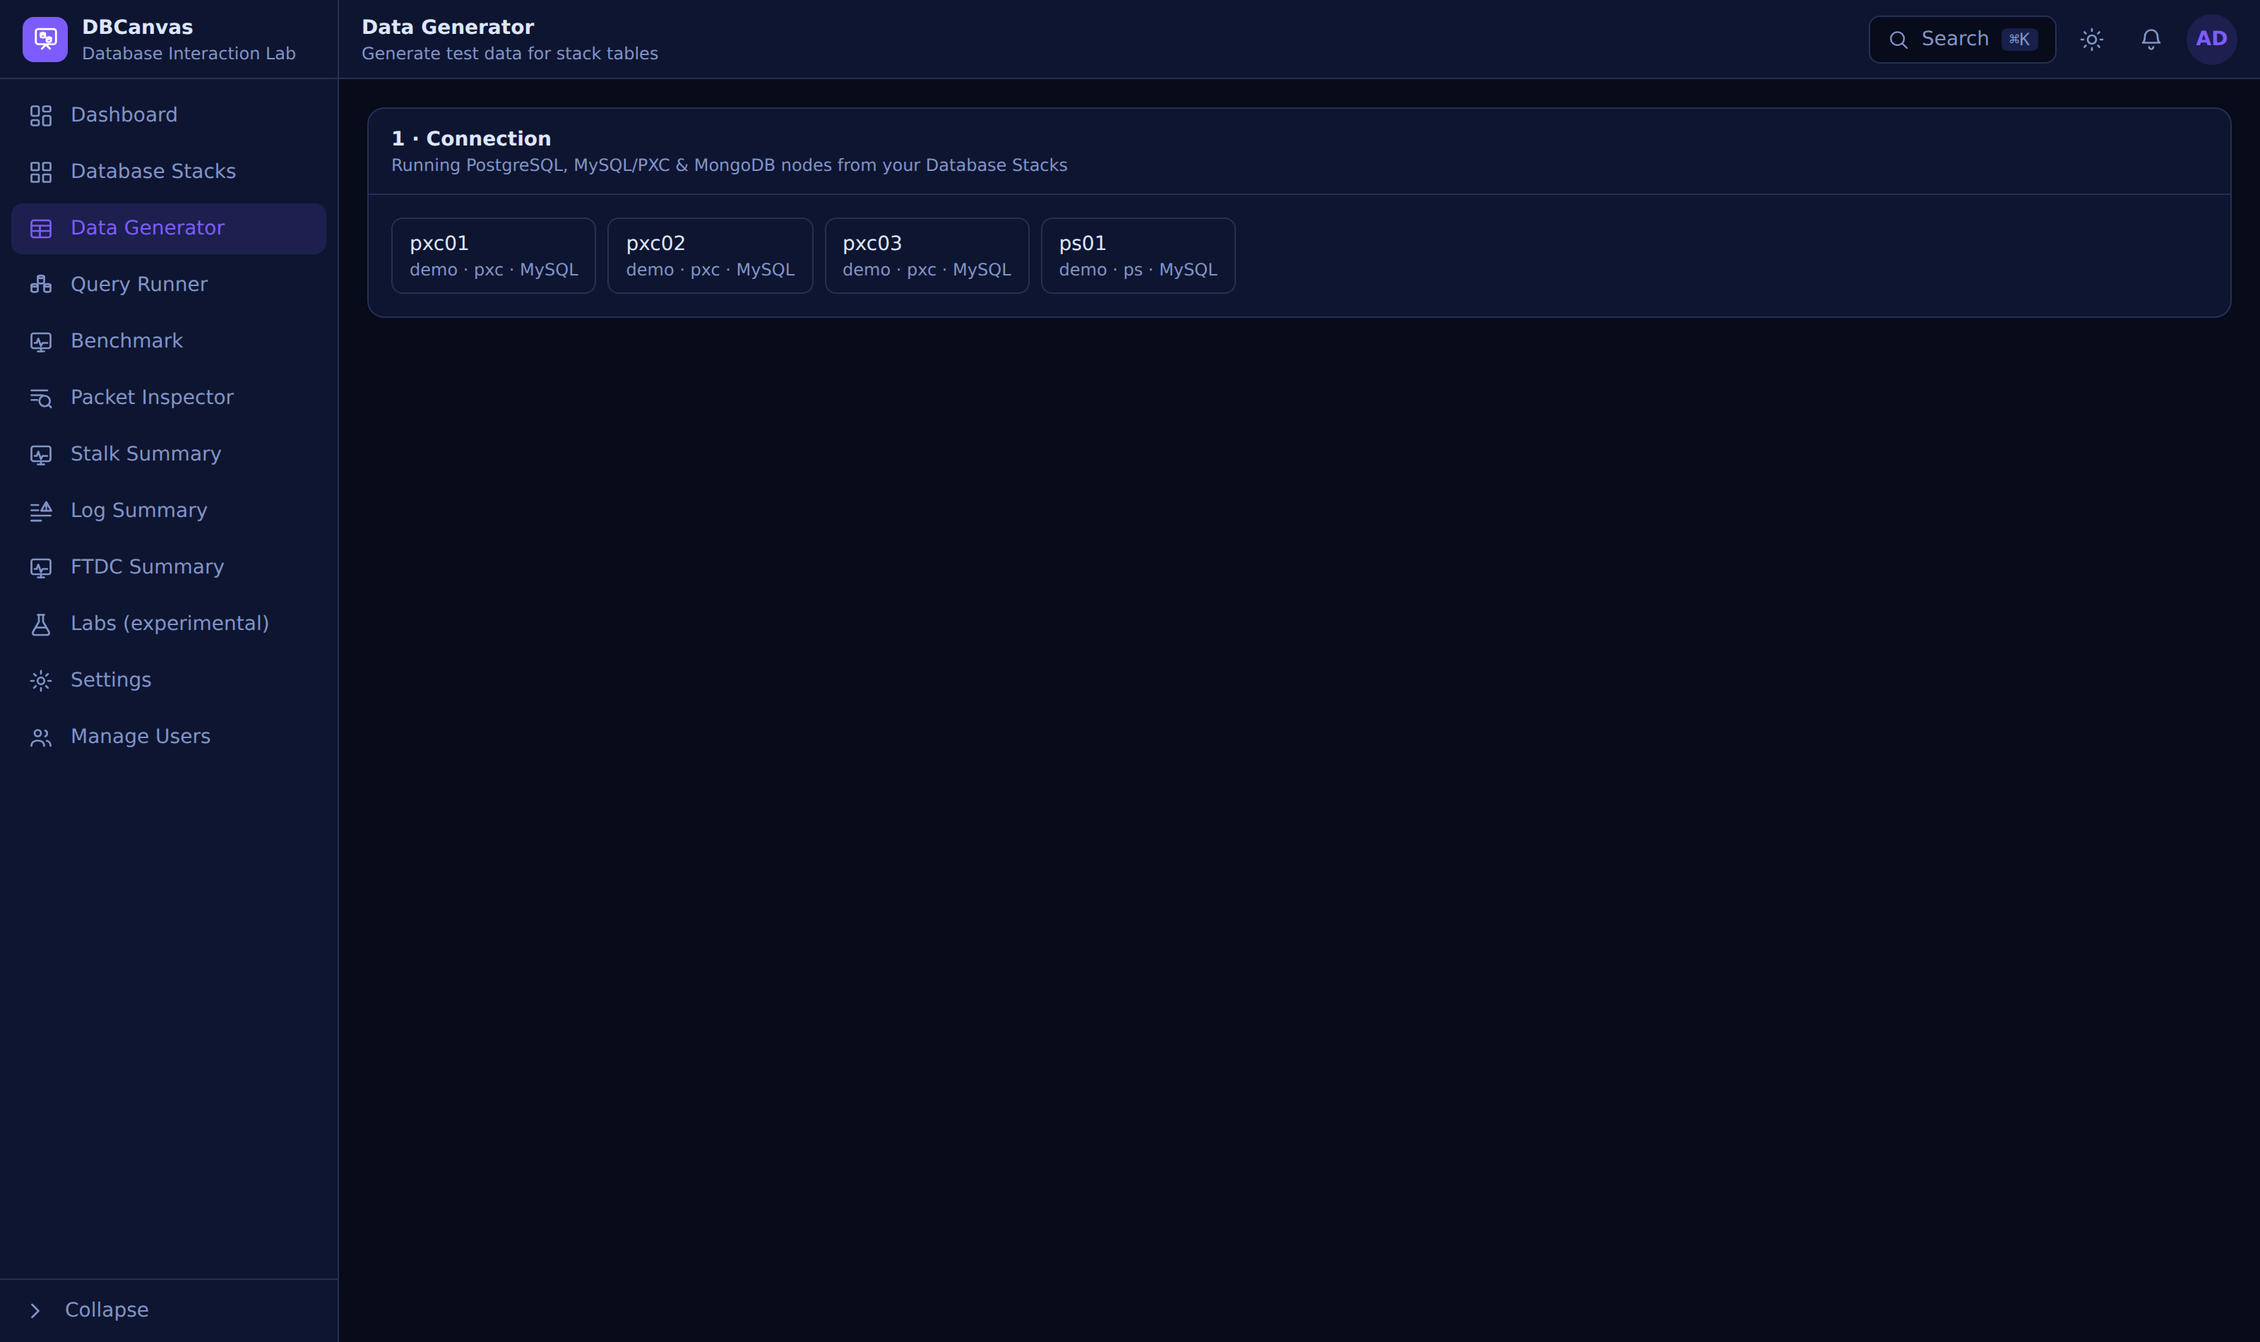
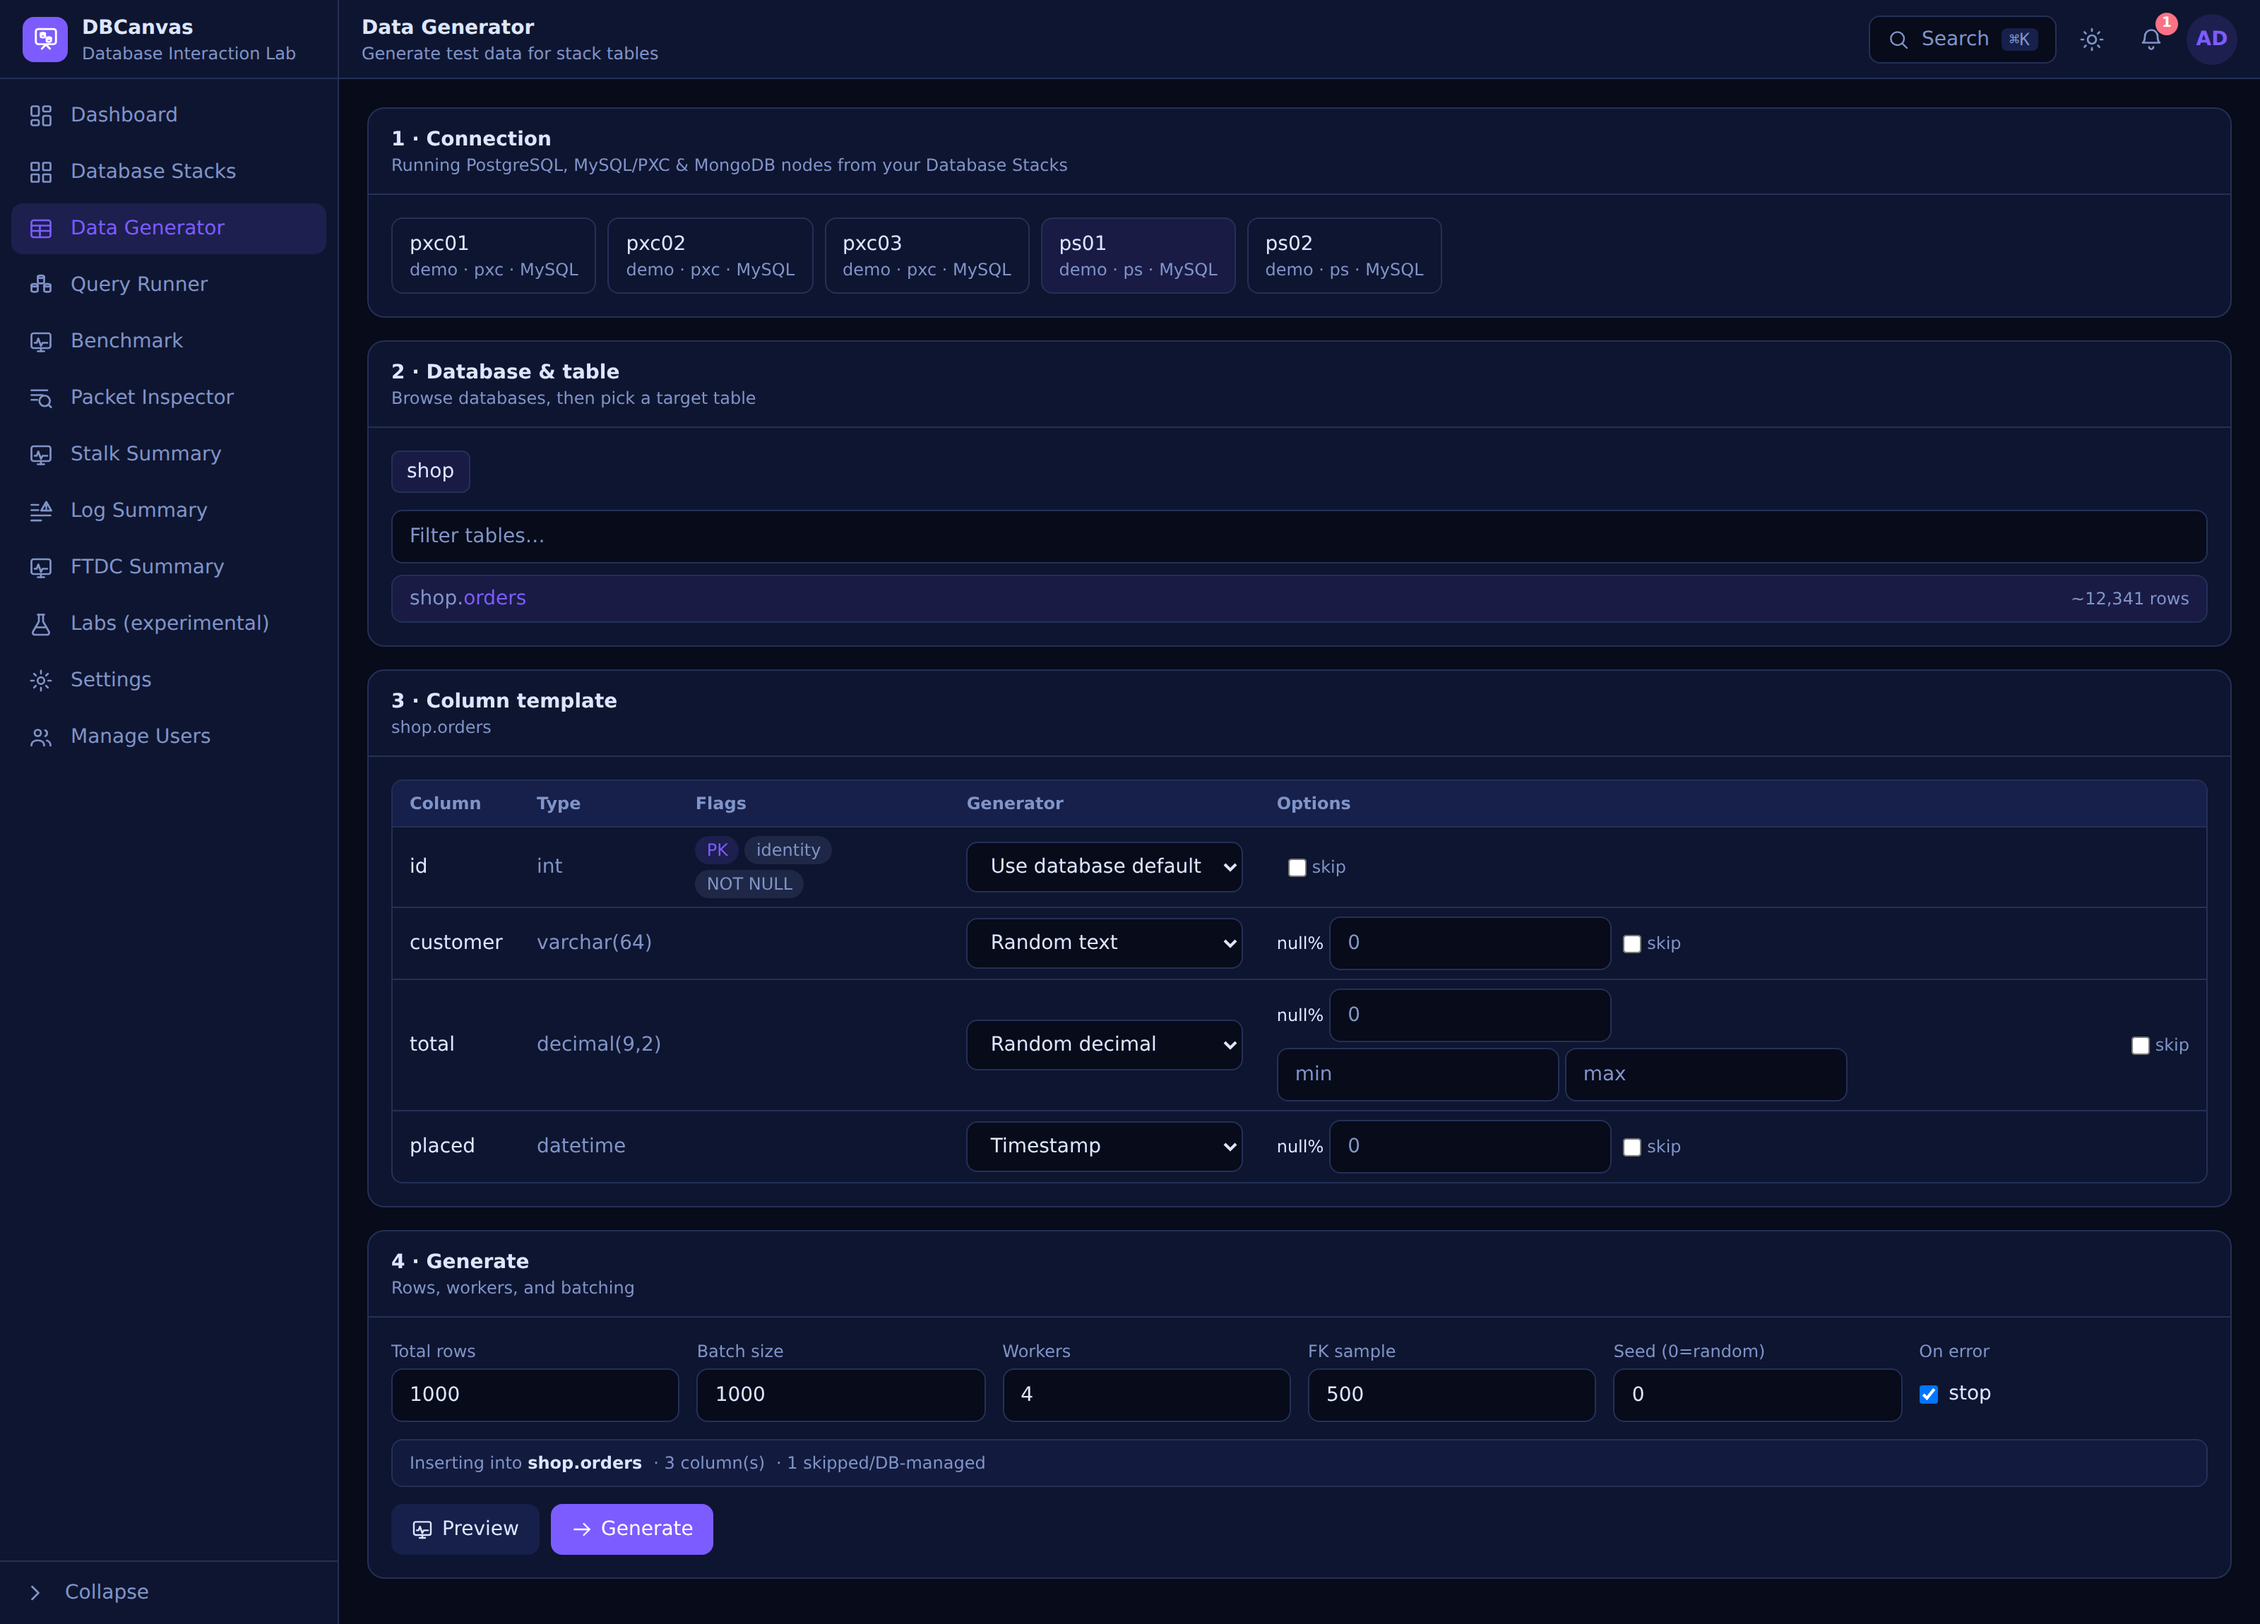
docs: reshoot six screenshots so they show the feature, not the app
Data Generator stopped at the node list; it now runs through to the column
template, with each column's type, flags and the generator chosen to match.
Benchmark was the empty form; it is now a run in progress — 516 TPS, 21s in,
p50/p95/p99 and the per-statement breakdown.

K3D, PMM and SeaweedFS were shot on the ten-node demo stack, so each panel
had a canvas of unrelated nodes behind it. Each now has its own small stack:
kubernetes (Intranet + a K3D frame), monitoring (Intranet + PMM + one
monitored node), backups (Intranet + SeaweedFS + a MongoDB replica set).

SeaweedFS was the weakest — an empty bucket. The replica set has Enable PBM
ticked with the SeaweedFS node as its target, so a backup was taken and the
shot is the browser inside mongo-backups/pbm/psmrs-00: .pbm.init, the
timestamped snapshot directory and its .pbm.json, with the node that wrote it
on the canvas beside it.

Captions rewritten to match what each image now shows.

diff --git a/docs/STACKS.md b/docs/STACKS.md
@@ -197,9 +197,10 @@ operator's own PVC backup repo and the bucket stays empty.)
 ![A K3D cluster node's panel — the operator, the cluster it built, and its MetalLB block](screenshots/k3d-cluster.png)
 
 > *A one-node K3D cluster on k3s v1.36.3 running **CloudNativePG 0.29.0**, which has built a
-> two-instance Postgres cluster and reports it healthy. The cluster's LoadBalancer addresses come
-> from this frame's own **MetalLB block** — several K3D frames can share a stack, so each gets
-> eight addresses of its own — and the manifests DBCanvas applied are archived on the node.*
+> two-instance Postgres cluster and reports it healthy. The panel is the whole cluster at a
+> glance: the operator and its namespace, the Postgres endpoint on a MetalLB address, the app
+> role and the Secret holding its password, and where the manifests DBCanvas applied were
+> archived. Its tabs carry `kubectl`, a copyable kubeconfig, and per-namespace Kubernetes users.*
 
 **Kubeconfig and RBAC users, for testing access control.** The K3D server node's panel has a
 **Kubeconfig** tab (a copyable admin kubeconfig, pointed at k3d's own load balancer so it works
@@ -259,7 +260,10 @@ actually want when a config is one line wrong.
 **Monitoring with PMM.** Add a PMM node and point databases at it; DB nodes register
 themselves, so Percona Monitoring & Management comes up already watching the stack:
 
-![A PMM node's panel — its address, its admin login, and what it is monitoring](screenshots/pmm-node.png)
+![A PMM node's panel — the server, its components, and two ways into it](screenshots/pmm-node.png)
+
+> *PMM is one node: Grafana, VictoriaMetrics, ClickHouse, PostgreSQL, QAN and nginx in a single
+> container. The panel names them, and gives a root console alongside a `pmm-admin` one.*
 
 ![Percona Monitoring & Management, already watching the services that registered with it](screenshots/pmm-web.png)
 
@@ -273,9 +277,11 @@ reachable over a browser-based VNC client — handy for GUI database tools insid
 
 ![The SeaweedFS node's Buckets tab — a read-only browser over what the databases wrote](screenshots/seaweedfs-buckets.png)
 
-> *The bucket browser on a freshly deployed target, before anything has backed up to it. Each
-> engine writes to its own prefix — PBM under `pbm/<cluster>`, pgBackRest under
-> `pgbackrest/<cluster>`, xtrabackup and the Percona operators at the top level.*
+> *Inside `mongo-backups/pbm/psmrs-00`, the snapshot a MongoDB replica set in the same stack
+> just wrote: `.pbm.init`, the timestamped snapshot directory and its `.pbm.json` metadata. The
+> replica set's frame has **Enable PBM** ticked with this node picked as its target, which is
+> all it takes. Each engine writes to its own prefix — PBM under `pbm/<cluster>`, pgBackRest
+> under `pgbackrest/<cluster>`, xtrabackup and the Percona operators at the top level.*
 
 **Diagnostics captures.** From a running node's panel, capture a diagnostic bundle and
 download it: **pg_gather** (a single `GatherReport.html`) on PostgreSQL nodes, or

diff --git a/IMPLEMENTATION.md b/IMPLEMENTATION.md
@@ -16740,3 +16740,37 @@ node with its node picker, split-pane transfer and in-place editing.
 - Both new screenshots are of the real features on the running demo stack — the drop dialog
   names `desktop01` and the file size it was given, and the file manager lists that node's
   filesystem with "10 running nodes in this stack" in its header.
+
+## 293. Screenshots that show the thing rather than the app — `docs/screenshots/*`, `docs/{STACKS,BENCHMARK,DATA_GENERATOR}.md`
+
+Six replaced, on feedback that they were showing the product rather than the feature.
+
+- **Data Generator** stopped at "here are your nodes". It now runs the flow through to the
+  **column template**: `shop.orders` picked on a Percona Server node, and each column with its
+  type, its flags (`PK`, `identity`, `NOT NULL`) and the generator chosen to match it —
+  `Random text` for the varchar, `Random decimal` for the decimal, `Timestamp` for the
+  datetime, the auto-increment key left to the database.
+- **Benchmark** was the empty form. It is now a run **in progress**: 516 TPS, 21 seconds in,
+  p50/p95/p99, and the per-statement table with counts and latencies for point selects, range
+  selects, updates, inserts and deletes.
+- **K3D, PMM and SeaweedFS** were shot on the ten-node demo stack, so behind each panel sat a
+  canvas full of unrelated nodes. Each now has **its own small stack** — `kubernetes`
+  (Intranet + a K3D frame), `monitoring` (Intranet + PMM + one monitored node), `backups`
+  (Intranet + SeaweedFS + a MongoDB replica set) — and the canvas behind the panel is the
+  thing the panel is about.
+- **SeaweedFS** was the weakest of all: an empty bucket. The `backups` stack has **Enable PBM**
+  ticked on the replica set with the SeaweedFS node as its target, so a backup was taken and
+  the screenshot is the browser inside `mongo-backups/pbm/psmrs-00` — `.pbm.init`, the
+  timestamped snapshot directory, and its `.pbm.json`. The node that wrote it is on the canvas
+  beside it.
+
+Captions were rewritten to match what each image now shows, including the two that had
+described the old picture.
+
+### Verified
+
+- All three stacks deployed clean and every screenshot is of a running system; the PBM backup
+  was triggered through the frame's own backup action and its output read back from the bucket
+  browser.
+- Links and screenshot references across `README.md` and `docs/*.md` all resolve, nothing
+  orphaned.

diff --git a/docs/DATA_GENERATOR.md b/docs/DATA_GENERATOR.md
@@ -4,7 +4,12 @@ An embedded feature under **Database Stacks** that generates realistic test data
 tables in databases provisioned by dbcanvas. It targets testing, demos, troubleshooting,
 benchmarking, performance validation, and app development.
 
-![The Data Generator — realistic rows into a chosen table](screenshots/data-generator.png)
+![The Data Generator with a table chosen and its column template ready](screenshots/data-generator.png)
+
+> *Pick a node, a database and a table, and the column template is built from the table itself:
+> each column with its type and flags, and a generator chosen to match — `Random text` for a
+> varchar, `Random decimal` for a decimal, `Timestamp` for a datetime, and the auto-increment
+> primary key left to the database. Anything can be overridden or skipped before generating.*
 
 Engines: **PostgreSQL** and **MySQL/PXC** (both implemented). This document describes the
 whole feature; sections tagged _(roadmap)_ are designed but not yet built. The core

diff --git a/docs/BENCHMARK.md b/docs/BENCHMARK.md
@@ -6,7 +6,11 @@ targets a **canvas-provisioned** MySQL/PXC or PostgreSQL node and reaches it the
 way the Query Runner does (native TCP over the stack's Docker network). Open it from
 the sidebar (**Benchmark**) or at `#benchmark`.
 
-![The Benchmark tool — OLTP, OLAP, read-write and read-only workloads](screenshots/benchmark.png)
+![An OLTP benchmark mid-run, with live throughput and per-statement latency](screenshots/benchmark.png)
+
+> *A run in progress against a Percona Server node: 516 TPS, 21 seconds in, with p50/p95/p99
+> transaction latency and every statement type broken out — point selects, range selects,
+> updates, inserts and deletes, each with its own count, error tally and latency.*
 
 ## Workload profiles
 
